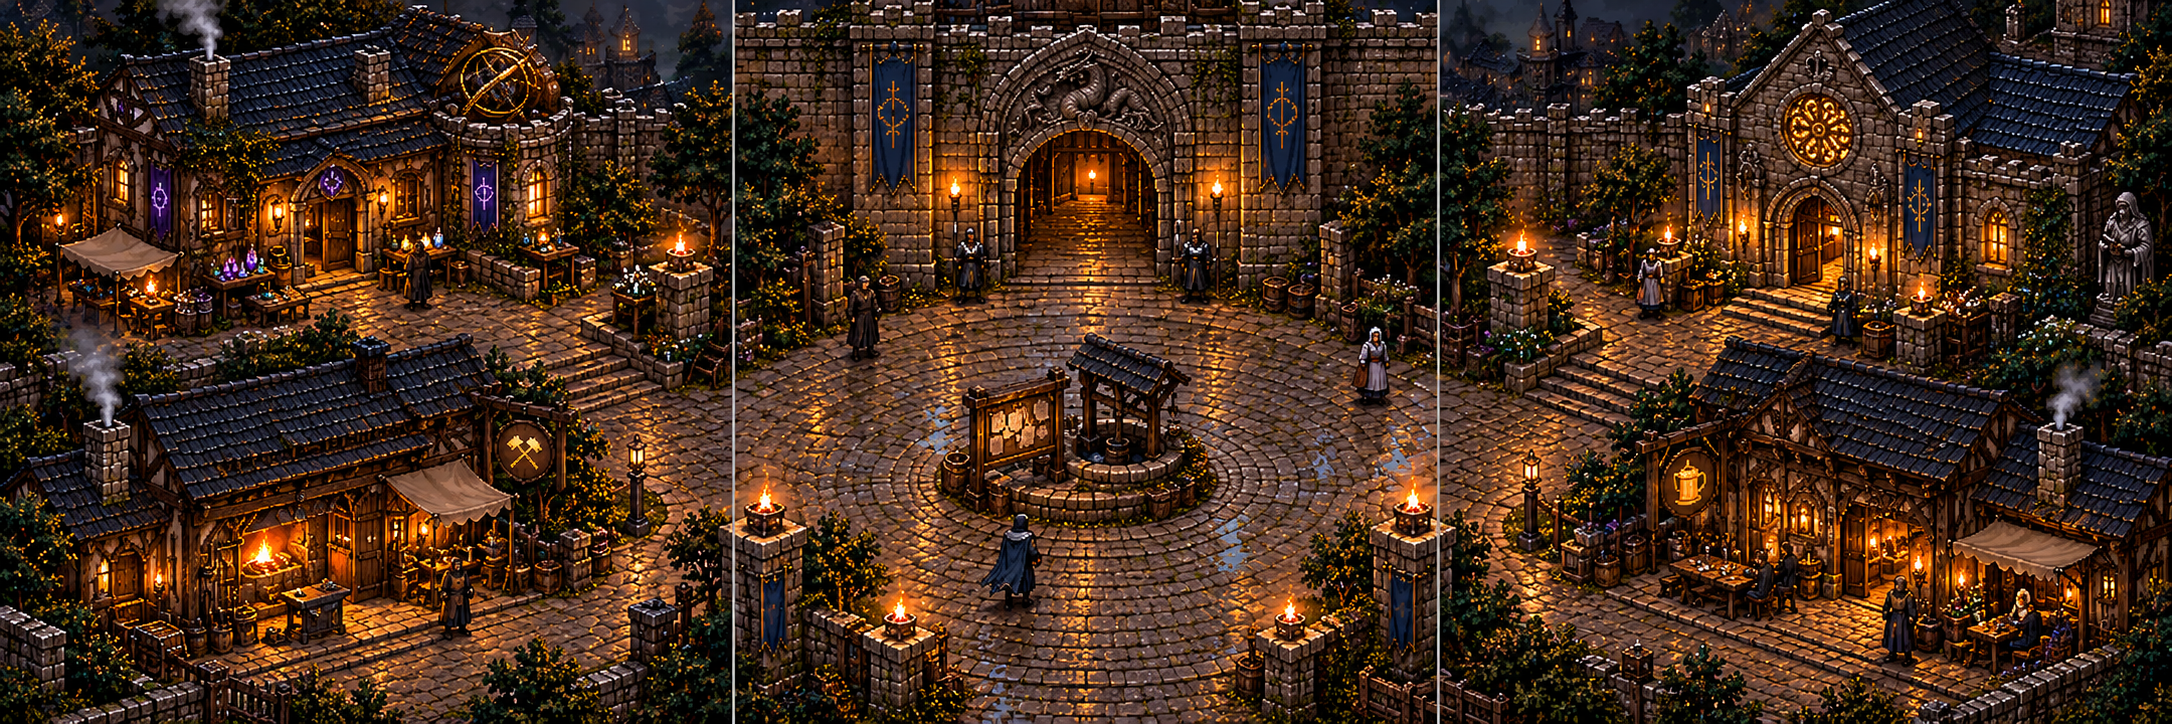
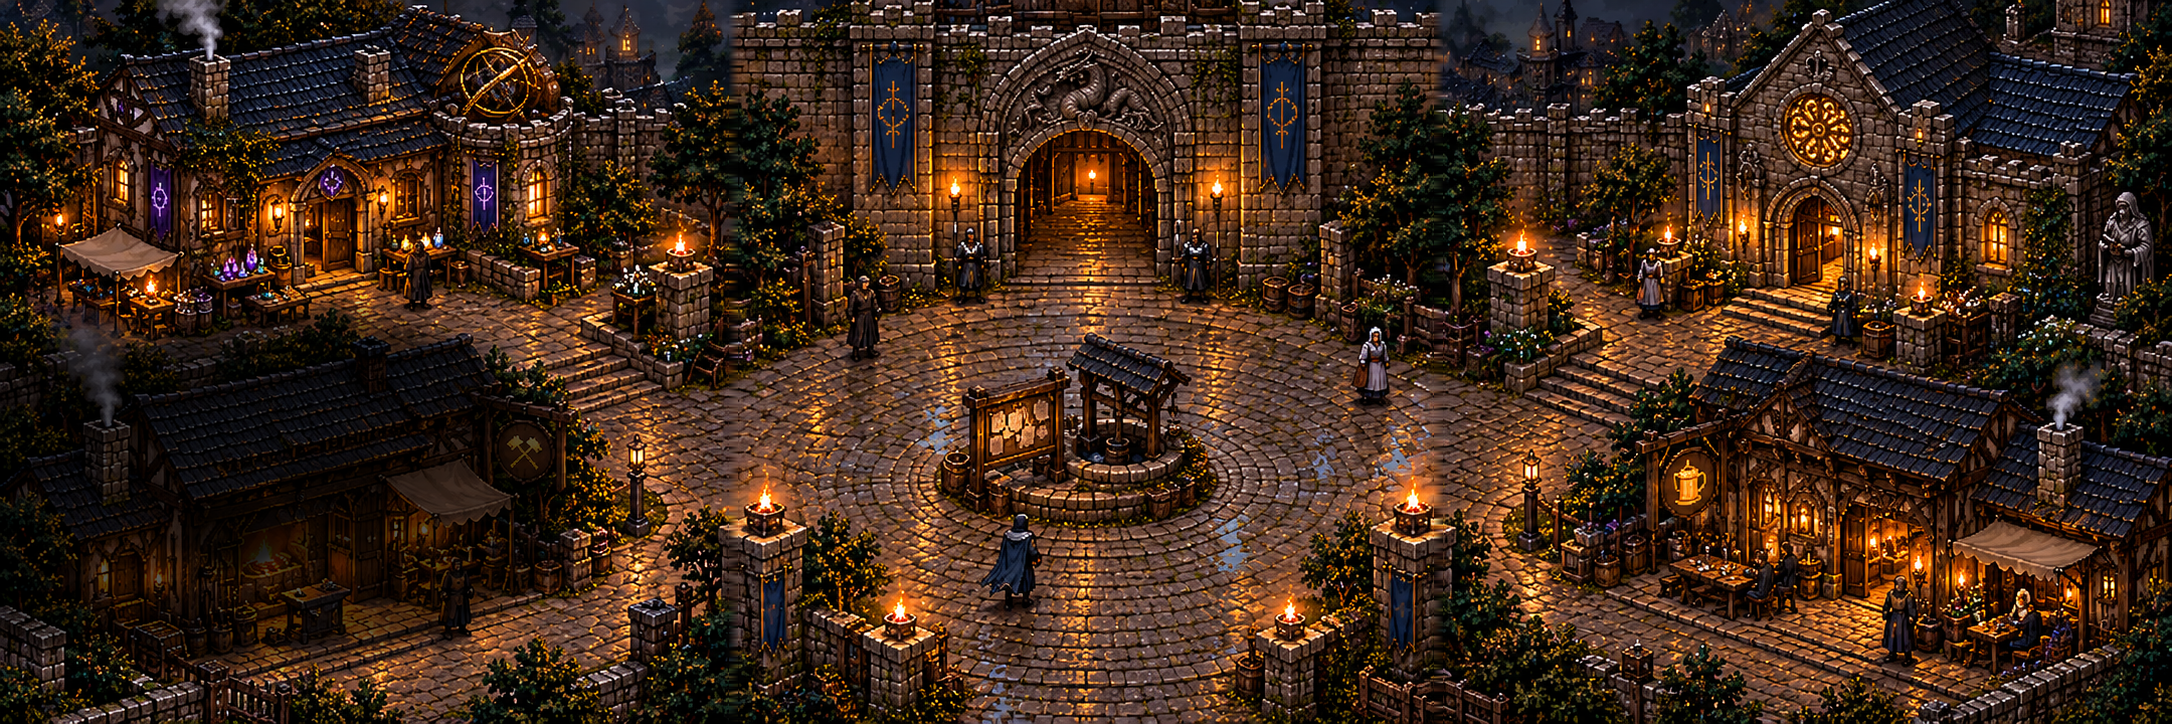
Ship full-screen Refuge, vacant forge and generated player names (#124)
* Make Refuge truly full-screen, integrate vacant forge art and anonymous nicknames

* Finalize Refuge town art: dark empty forge and seamless panorama

* Bump Wyrmforge to 0.0.119 for fullscreen Refuge release

* Update browser regression paths for immersive Refuge navigation

* Keep quest regression test aligned with Settings-only secondary navigation

---------

diff --git a/src/Wyrmforge.Presentation.Web/wwwroot/css/town-panorama.css b/src/Wyrmforge.Presentation.Web/wwwroot/css/town-panorama.css
@@ -79,3 +79,77 @@
   position:absolute;width:1px;height:1px;padding:0;margin:-1px;overflow:hidden;
   clip:rect(0,0,0,0);white-space:nowrap;border:0;
 }
+
+
+/* Full-viewport Refuge: world art replaces the header/card/dock, not the welcome screen.
+   On mobile the three slices are always full-screen and swipeable. */
+html:has(.refuge-home), body:has(.refuge-home) {
+  width:100%;height:100%;overflow:hidden;overscroll-behavior:none;
+}
+.game-shell.refuge-home {
+  position:relative;box-sizing:border-box;display:block!important;margin:0;padding:0!important;
+  width:100%;height:100dvh;min-height:100dvh;max-height:100dvh;overflow:hidden;
+  background:#0c0b0d;
+}
+.game-shell.refuge-home .shell-content {
+  box-sizing:border-box;position:relative;display:block;width:100vw!important;
+  max-width:none!important;height:100dvh;min-height:0!important;margin:0!important;padding:0!important;overflow:hidden;
+}
+.game-shell.refuge-home .town-square {
+  position:relative;box-sizing:border-box;display:block!important;
+  width:100vw!important;max-width:none!important;height:100dvh!important;
+  min-height:100dvh!important;max-height:100dvh!important;
+  margin:0!important;padding:0!important;gap:0!important;border:0!important;overflow:hidden;
+  background:#0c0b0d;box-shadow:none!important;
+}
+.game-shell.refuge-home .town-panorama-viewport {
+  position:absolute!important;inset:0!important;box-sizing:border-box;display:block;
+  width:100vw!important;height:100dvh!important;max-height:none!important;
+  min-height:100dvh!important;aspect-ratio:auto!important;flex:none!important;
+  border:0!important;border-radius:0!important;box-shadow:none!important;background:#0a090b;
+}
+.game-shell.refuge-home .town-panorama {height:100%!important}
+.game-shell.refuge-home .town-panorama-art {width:100%;height:100%;object-fit:fill}
+.game-shell.refuge-home .town-square .menu-brand {
+  position:absolute!important;top:max(10px,env(safe-area-inset-top))!important;
+  right:58px!important;left:auto!important;bottom:auto!important;z-index:7;
+  display:block!important;flex:none;width:auto!important;min-height:0!important;
+  margin:0!important;padding:0!important;pointer-events:none;
+}
+.game-shell.refuge-home .town-square .menu-brand h1 {
+  position:absolute;width:1px;height:1px;clip:rect(0,0,0,0);
+  overflow:hidden;white-space:nowrap;
+}
+.game-shell.refuge-home .town-square .hunter-menu-progress {
+  display:flex;flex-direction:column;gap:1px;align-items:flex-end;justify-content:center;
+  width:auto;max-width:none;min-height:38px;padding:3px 7px;
+  border:0;background:#09080b70;border-radius:5px;pointer-events:auto;
+  color:#f4dfbd;text-align:right;text-shadow:0 1px 7px #000,0 2px 3px #000;
+}
+.game-shell.refuge-home .town-square .hunter-menu-progress span {font-size:11px;line-height:1.2}
+.game-shell.refuge-home .player-identity {
+  position:fixed!important;z-index:40;top:max(11px,env(safe-area-inset-top))!important;
+  left:max(9px,env(safe-area-inset-left))!important;right:auto!important;
+  max-width:min(44vw,180px)!important;pointer-events:auto;
+}
+.game-shell.refuge-home .player-name-edit {
+  min-height:38px;max-width:100%;padding:4px 5px;
+  color:#f9e4c1;font-size:clamp(10px,2.9vw,13px);
+  text-shadow:0 1px 7px #000,0 2px 3px #000;
+  background:#09080b70;border-radius:5px;
+}
+.game-shell.refuge-home .player-name-edit span {overflow:hidden;text-overflow:ellipsis}
+.game-shell.refuge-home .town-settings {
+  position:absolute;top:max(10px,env(safe-area-inset-top));right:max(8px,env(safe-area-inset-right));
+  z-index:8;display:grid;place-items:center;width:44px;height:44px;
+  color:#f9dfb3;background:#09080bb5;border:1px solid #c9a46b77;
+  border-radius:50%;font:24px/1 system-ui,sans-serif;cursor:pointer;
+  text-shadow:0 2px 6px #000;
+}
+.game-shell.refuge-home .town-settings:focus-visible {outline:2px solid #ffd69b;outline-offset:2px}
+.game-shell.refuge-home .town-viewport .town-hotspot {z-index:3}
+.game-shell.refuge-home .town-hotspot--gate {min-width:44px;min-height:44px}
+@media(orientation:landscape) and (max-height:540px) {
+  .game-shell.refuge-home .town-square {display:block!important}
+  .game-shell.refuge-home .town-panorama-viewport {width:100vw!important;height:100dvh!important}
+}

diff --git a/src/Wyrmforge.Presentation.Web/wwwroot/js/leaderboard.js b/src/Wyrmforge.Presentation.Web/wwwroot/js/leaderboard.js
@@ -4,16 +4,24 @@ export { validateName } from './name-policy.js';
 const profileKey = 'wyrmforge.player-name.v1';
 const cookieKey = 'wyrmforge_player_name';
 const pendingKey = 'wyrmforge.hall-of-fame.pending.v1';
-let currentName = 'Wyrm Wanderer';
+let currentName = '';
+const isAnonymousDefault = name => !name || !name.trim() || name.trim() === 'Wyrm Wanderer';
+function newAnonymousName() {
+    const alphabet = 'abcdefghjkmnpqrstuvwxyz23456789';
+    const values = new Uint8Array(8);
+    crypto.getRandomValues(values);
+    return 'player#' + [...values].map(value => alphabet[value % alphabet.length]).join('');
+}
 export function getPlayerName() {
     try {
         const cookie = document.cookie.split(';').map(part => part.trim()).find(part => part.startsWith(`${cookieKey}=`));
         const name = cookie ? decodeURIComponent(cookie.slice(cookieKey.length + 1)) : localStorage.getItem(profileKey);
-        if (name && !validateName(name)) return setPlayerName(name);
+        if (!isAnonymousDefault(name) && !validateName(name)) return setPlayerName(name);
     } catch { }
-    return setPlayerName(currentName);
+    return setPlayerName(newAnonymousName());
 }
 export function setPlayerName(value) {
+    if (isAnonymousDefault(value)) value = newAnonymousName();
     if (validateName(value)) return currentName;
     currentName = value.trim();
     try {

diff --git a/src/Wyrmforge.Presentation.Web/wwwroot/js/name-policy.js b/src/Wyrmforge.Presentation.Web/wwwroot/js/name-policy.js
@@ -3,7 +3,10 @@ const words = new Set(['fuck','fucker','fucking','motherfucker','shit','shitty',
     'kanker','kut','lul','hoer','neuken','pik','tering','tyfus','godverdomme']);
 const embedded = ['fuck','bitch','asshole','faggot','nigger','nigga','kanker','godverdomme'];
 export function validateName(value) {
-    if (typeof value !== 'string' || !/^[A-Za-z0-9 _-]{2,18}$/.test(value.trim())) return 'Use 2–18 letters, numbers, spaces, _ or -.';
+    if (typeof value !== 'string') return 'Use 2–18 letters, numbers, spaces, _ or -.';
+    const nickname = value.trim();
+    if (!/^[A-Za-z0-9 _-]{2,18}$/.test(nickname) && !/^player#[a-z0-9]{8}$/i.test(nickname))
+        return 'Use 2–18 letters, numbers, spaces, _ or - (or an assigned player# code).';
     const normalized = value.trim().replace(/([a-z0-9])([A-Z])/g, '$1 $2').toLowerCase().replace(/[013457]/g, digit => ({0:'o',1:'i',3:'e',4:'a',5:'s',7:'t'})[digit]);
     const tokens = normalized.split(/[ _-]+/);
     const joined = tokens.join('');

diff --git a/services/playtest-collector/src/index.js b/services/playtest-collector/src/index.js
@@ -9,7 +9,7 @@ const fields = new Set(['onboarding', 'movement', 'combat', 'rewards', 'forge', 
 const outcomes = new Set(['Extracted', 'Defeated', 'Abandoned', 'Interrupted', 'Unknown']);
 const milestones = new Set(['trail_entered', 'wyrm_entered', 'refuge_reached', 'descended', 'extracted']);
 const identifier = /^[a-zA-Z0-9-]{8,100}$/;
-const nicknameFormat = /^[a-zA-Z0-9 _-]{2,18}$/;
+const nicknameFormat = /^(?:[a-zA-Z0-9 _-]{2,18}|player#[a-z0-9]{8})$/i;
 
 function json(value, status = 200, headers = {}) {
     return new Response(JSON.stringify(value), { status, headers: { 'Content-Type': 'application/json; charset=utf-8',

diff --git a/tests/Wyrmforge.Browser.Tests/WyrmforgeBrowserTests.cs b/tests/Wyrmforge.Browser.Tests/WyrmforgeBrowserTests.cs
@@ -71,6 +71,12 @@ public sealed class WyrmforgeBrowserTests : PageTest
         await Expect(Page.Locator(".town-hotspot--codex")).ToHaveCountAsync(1);
         await Expect(Page.Locator(".town-hotspot--legends")).ToHaveCountAsync(1);
         await viewport.EvaluateAsync("element => element.scrollTo({ left: element.clientWidth, behavior: 'auto' })");
+        var fullscreen = await viewport.EvaluateAsync<bool>(@"element => {
+            const rect = element.getBoundingClientRect();
+            return Math.abs(rect.width - innerWidth) <= 2 && Math.abs(rect.height - innerHeight) <= 2;
+        }");
+        Assert.IsTrue(fullscreen, "The town must occupy the full browser viewport rather than a square card.");
+        await Expect(Page.Locator(".town-action-dock")).ToHaveCountAsync(0);
         await ScreenshotAsync($"refuge-town-{width}.png");
     }
 
@@ -1056,6 +1062,7 @@ public sealed class WyrmforgeBrowserTests : PageTest
             JSON.stringify([{Spell:1,MeaningfulRuns:4,BestDepth:2,WyrmFeat:true}]));");
 
         await OpenAsync();
+        await Page.GetByRole(AriaRole.Button, new() { Name = "More options" }).ClickAsync();
         await Page.GetByRole(AriaRole.Button, new() { Name = "Hunt preparation", Exact = true }).ClickAsync();
         var rite = Page.GetByRole(AriaRole.Button, new() { Name = "INVOKE ASCENDANT RITE" });
         await Expect(rite).ToBeVisibleAsync();
@@ -1082,6 +1089,7 @@ public sealed class WyrmforgeBrowserTests : PageTest
                 {Spell:3,MeaningfulRuns:4,BestDepth:2,WyrmFeat:true}]));");
 
         await OpenAsync();
+        await Page.GetByRole(AriaRole.Button, new() { Name = "More options" }).ClickAsync();
         await Page.GetByRole(AriaRole.Button, new() { Name = "Hunt preparation", Exact = true }).ClickAsync();
         var fire = Page.Locator("section.ascendant-rite-card:not(.storm) button.ascendant-rite-action");
         var storm = Page.Locator("section.ascendant-rite-card.storm button.ascendant-rite-action");
@@ -1282,7 +1290,8 @@ public sealed class WyrmforgeBrowserTests : PageTest
         await Page.AddInitScriptAsync("localStorage.setItem('wyrmforge.firstHunt.v1','2'); localStorage.setItem('wyrmforge.arcaneBuild.v1', JSON.stringify({ Budget:2, Nodes:[] }));");
         await Page.GotoAsync(BaseUrl, new PageGotoOptions { WaitUntil = WaitUntilState.NetworkIdle });
         await EnterTownIfNeededAsync();
-        await Page.Locator("nav.menu-actions button").Filter(new() { HasText = "World Gate" }).ClickAsync();
+        await Page.GetByRole(AriaRole.Button, new() { Name = "More options" }).ClickAsync();
+        await Page.GetByRole(AriaRole.Button, new() { Name = "World Gate and regions" }).ClickAsync();
         await Expect(Page.GetByRole(AriaRole.Region, new() { Name = "World Gate" })).ToBeVisibleAsync();
         await Expect(Page.GetByRole(AriaRole.Heading, new() { Name = "Road to the Conclave" })).ToBeVisibleAsync();
         await ScreenshotAsync("world-gate-explore.png");
@@ -1310,7 +1319,8 @@ public sealed class WyrmforgeBrowserTests : PageTest
             localStorage.setItem('wyrmforge.greatHunt.v1', JSON.stringify([{Wyrm:0,Slain:true,EssenceSecured:true,DeepEvolvedDuel:false,AscendantDefeated:false}]));");
         await Page.GotoAsync(BaseUrl, new PageGotoOptions { WaitUntil = WaitUntilState.NetworkIdle });
         await EnterTownIfNeededAsync();
-        await Page.Locator("nav.menu-actions button").Filter(new() { HasText = "World Gate" }).ClickAsync();
+        await Page.GetByRole(AriaRole.Button, new() { Name = "More options" }).ClickAsync();
+        await Page.GetByRole(AriaRole.Button, new() { Name = "World Gate and regions" }).ClickAsync();
         var frost = Page.GetByRole(AriaRole.Radio, new() { Name = "The Hoarfrost Reaches" });
         await Expect(frost).ToBeEnabledAsync();
         await Expect(Page.Locator(".gate-region.locked")).Not.ToHaveCountAsync(0);
@@ -1360,6 +1370,7 @@ public sealed class WyrmforgeBrowserTests : PageTest
                 Trails:4,RareTrails:1,Depth:1,Wyrms:[],Essences:[],Synergy:false,Evolution:false,Claimed:[],Caches:0}})); }");
         await Page.GotoAsync(BaseUrl, new() { WaitUntil = WaitUntilState.NetworkIdle });
         await EnterTownIfNeededAsync();
+        await Page.GetByRole(AriaRole.Button, new() { Name = "More options" }).ClickAsync();
         await Page.GetByRole(AriaRole.Button, new() { NameRegex = new System.Text.RegularExpressions.Regex("^Quests") }).ClickAsync();
         var dialog = Page.GetByRole(AriaRole.Dialog, new() { Name = "Hunt quests" });
         await Expect(dialog).ToBeVisibleAsync();
